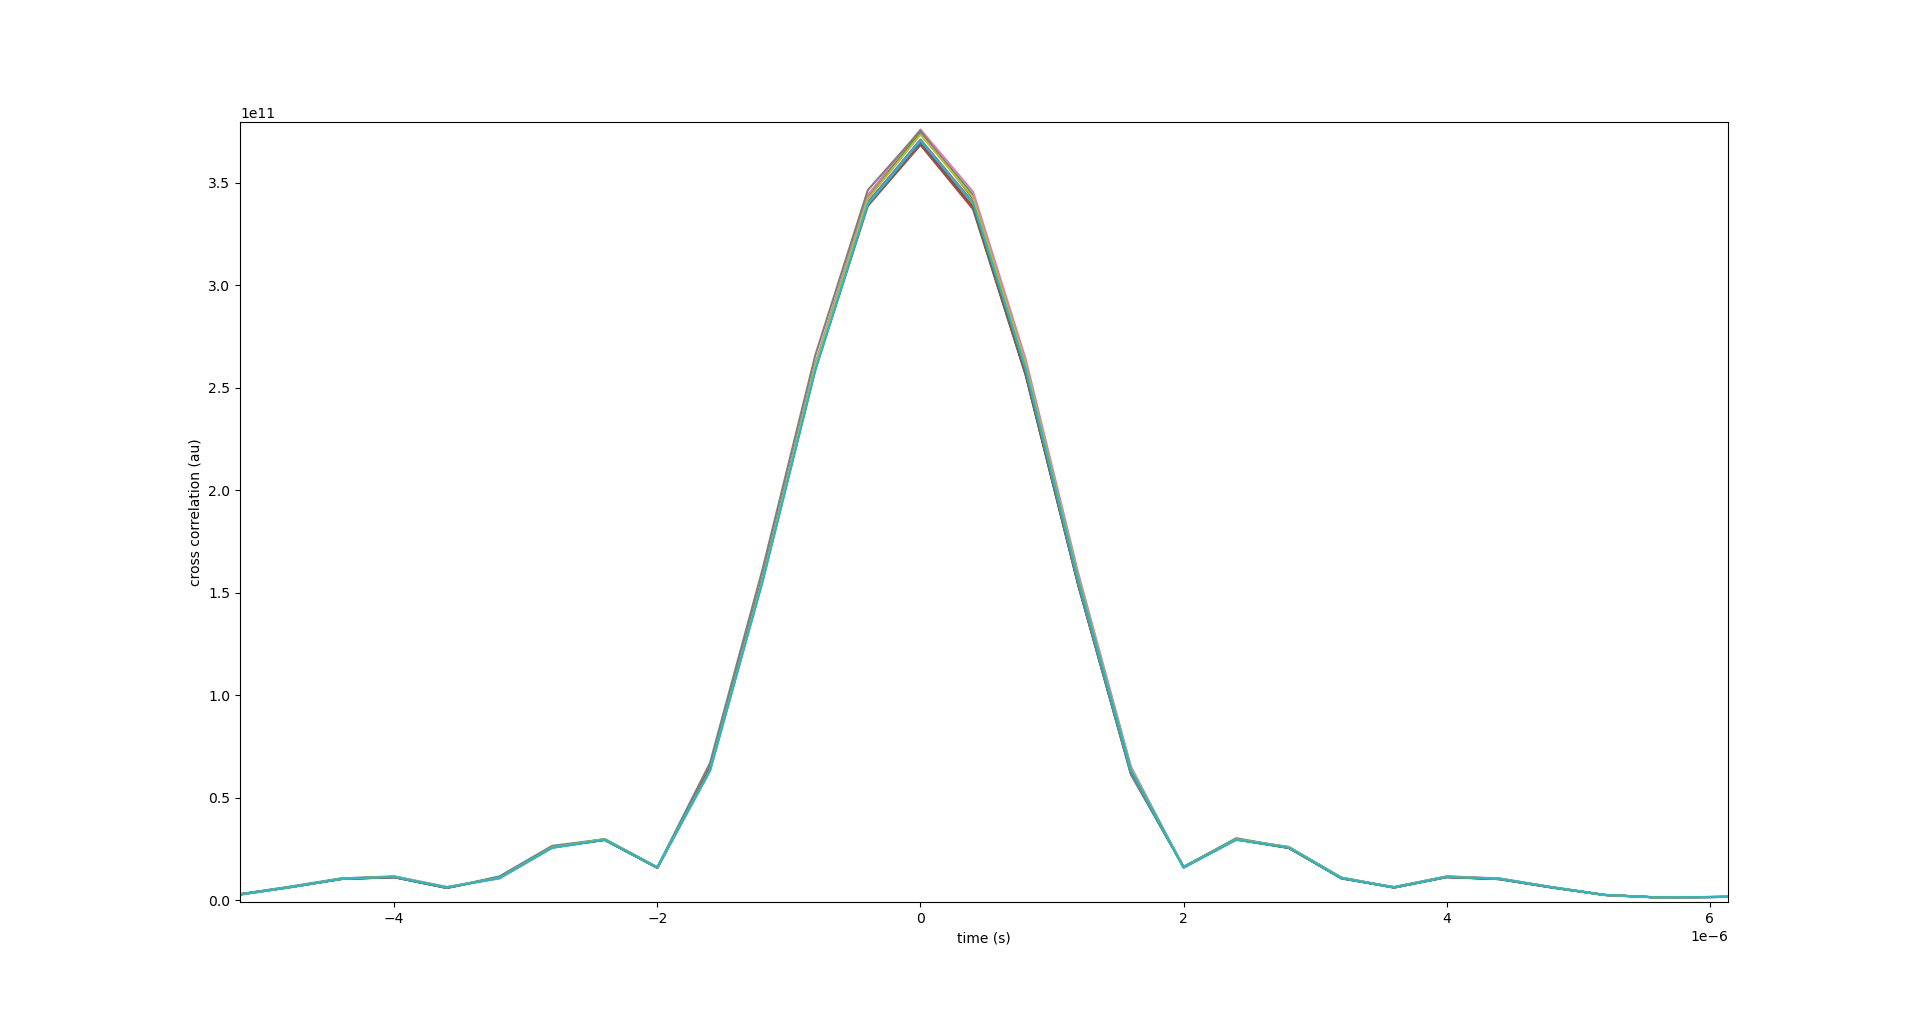
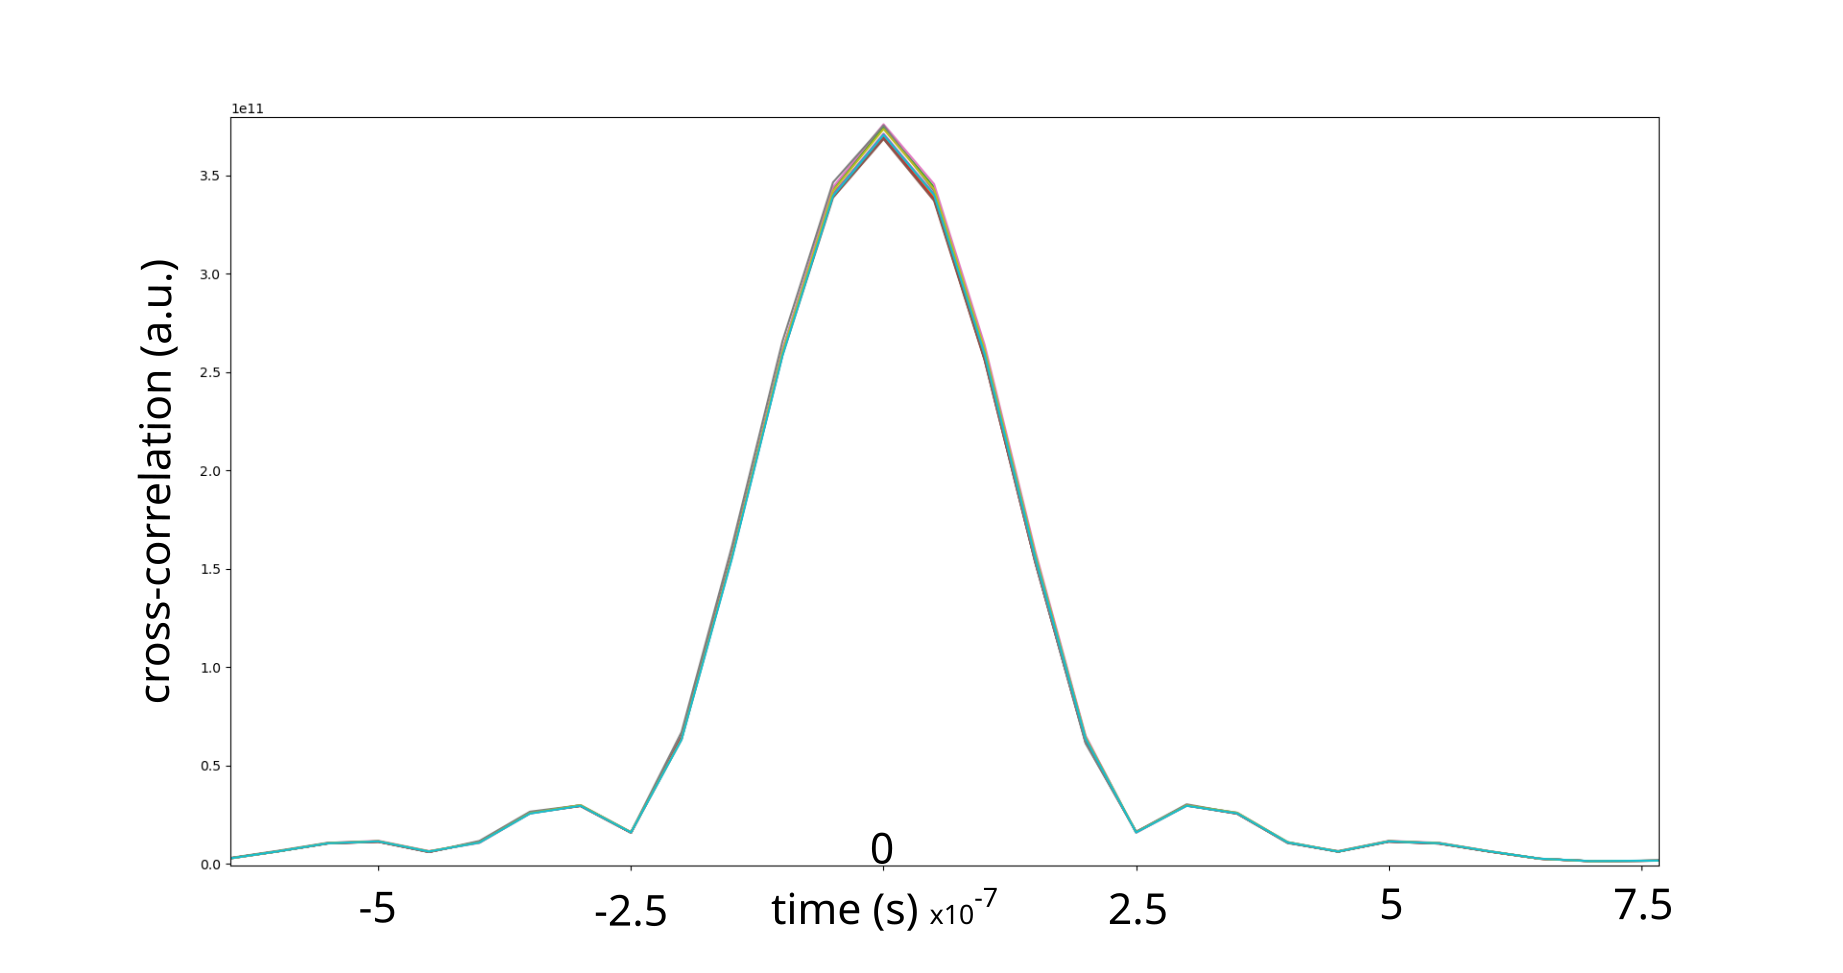
fix xcorr x scale

diff --git a/26_CERN_Workshop/slides.tex b/26_CERN_Workshop/slides.tex
@@ -156,7 +156,7 @@ stearing).
 {\footnotesize No locksweep: acquisition begins at PPS $\rightarrow$ correlation peaks are in the same sampling period
 (100~ns @ 10~MS/s).\par}
 
-\hspace*{1cm}\includegraphics[width=.75\linewidth]{xcorrelation_zoom_adc.pdf}
+\hspace*{1cm}\includegraphics[width=.8\linewidth]{xcorr_locksweep_zoom.pdf}
 
 {\footnotesize With locksweep: ADC clock is synchronised on White Rabbit $\rightarrow$ correlation peaks are synchronized ($\sigma=1$~ns, limited by AD9361).\par}
 \end{minipage}